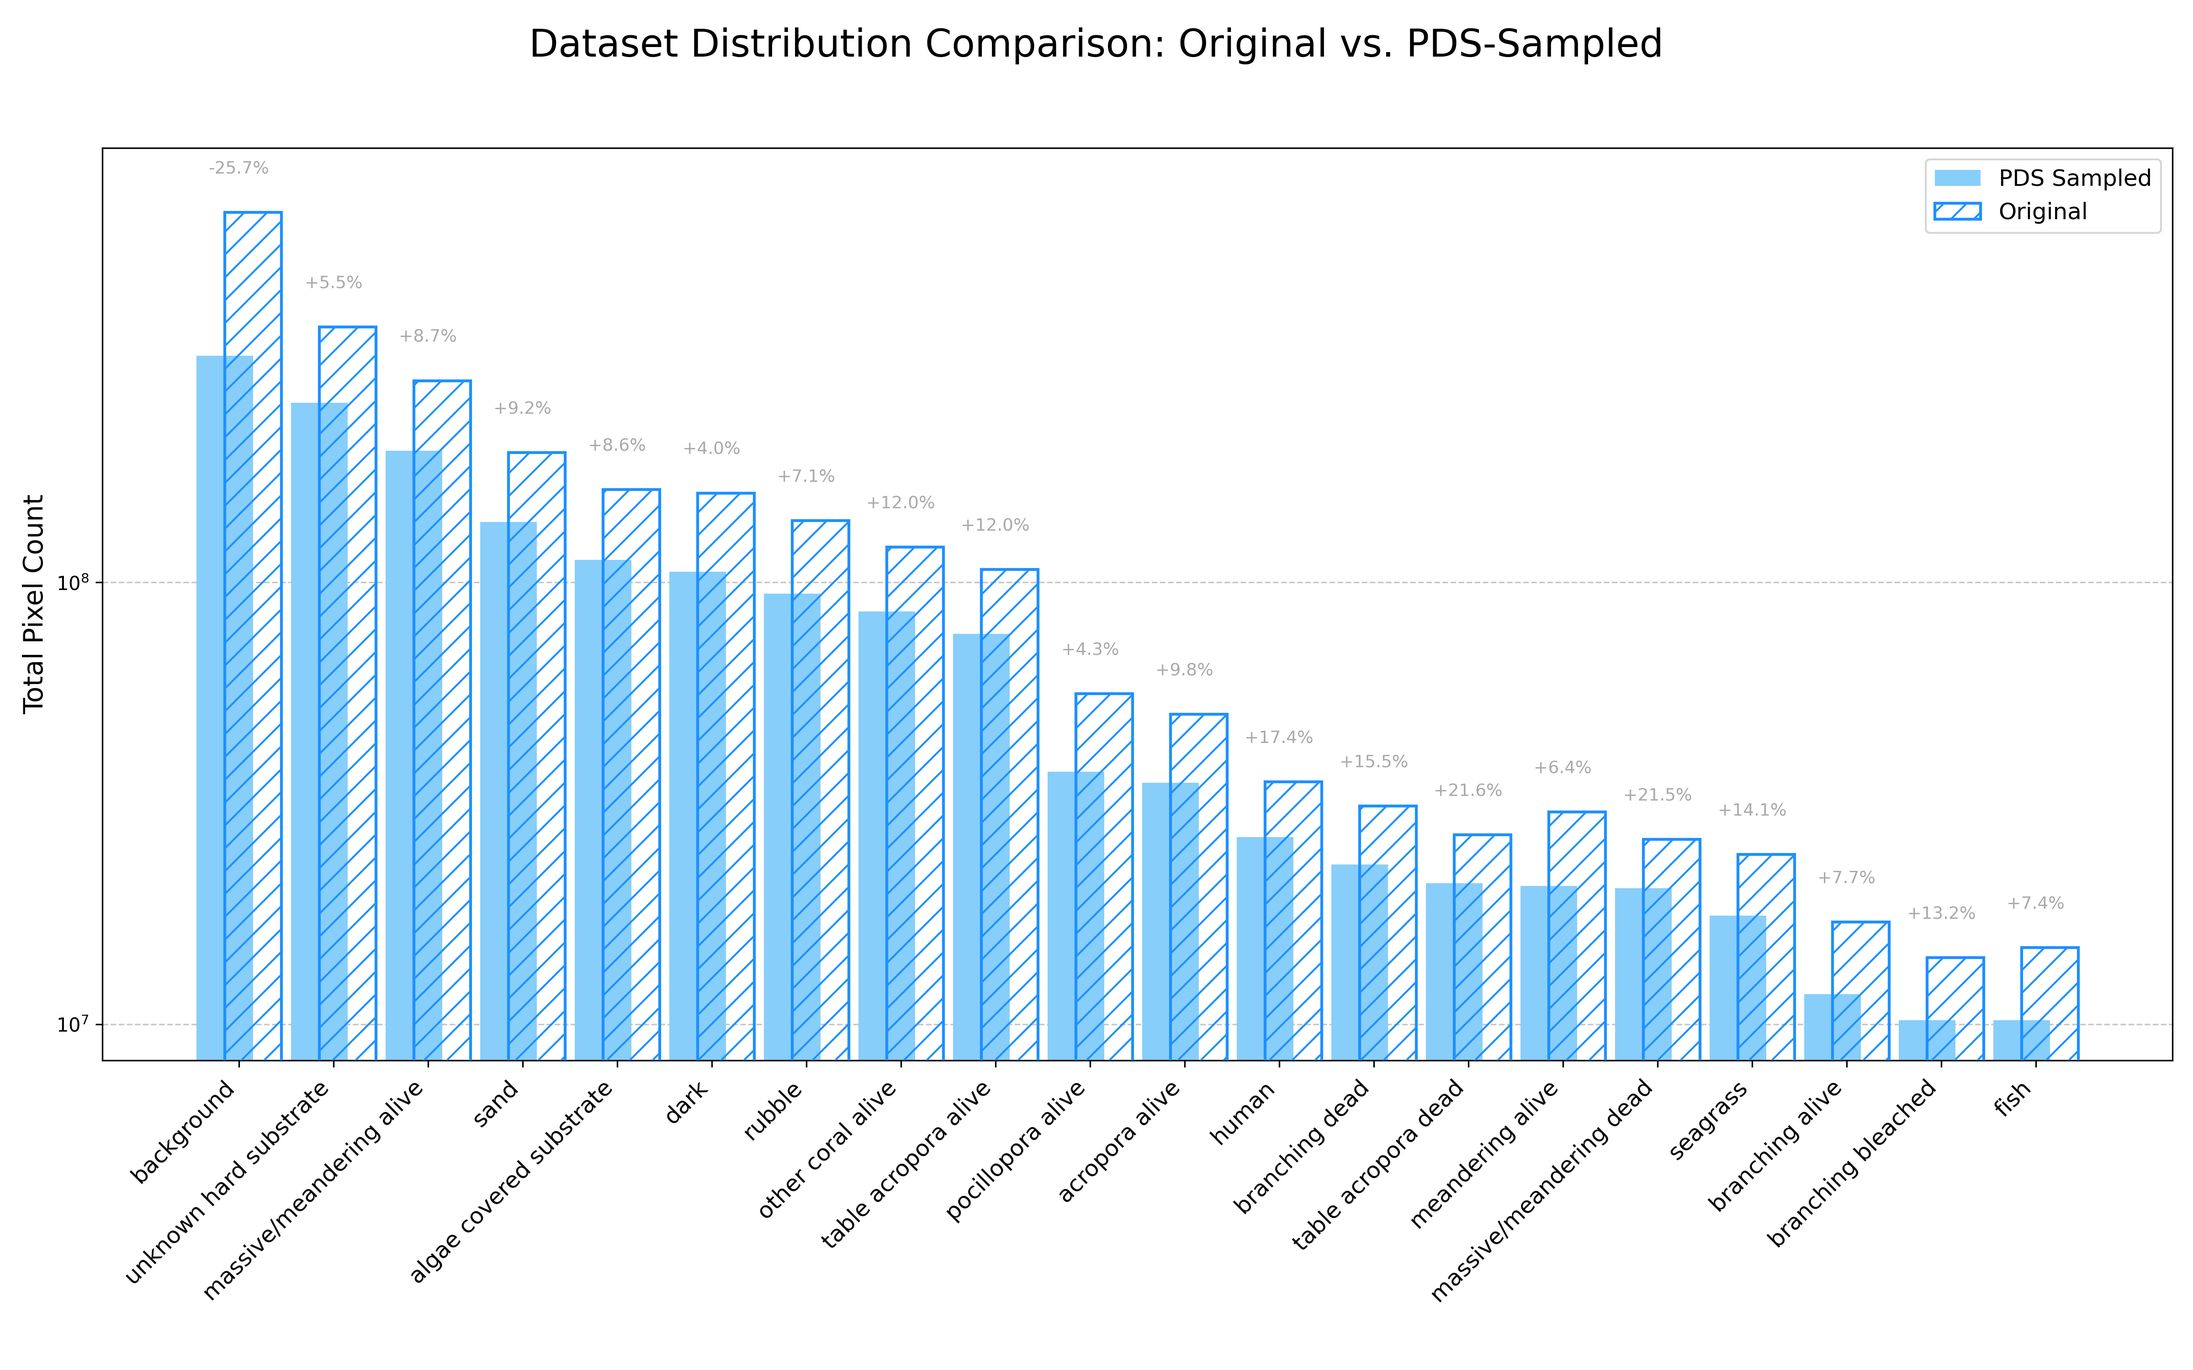
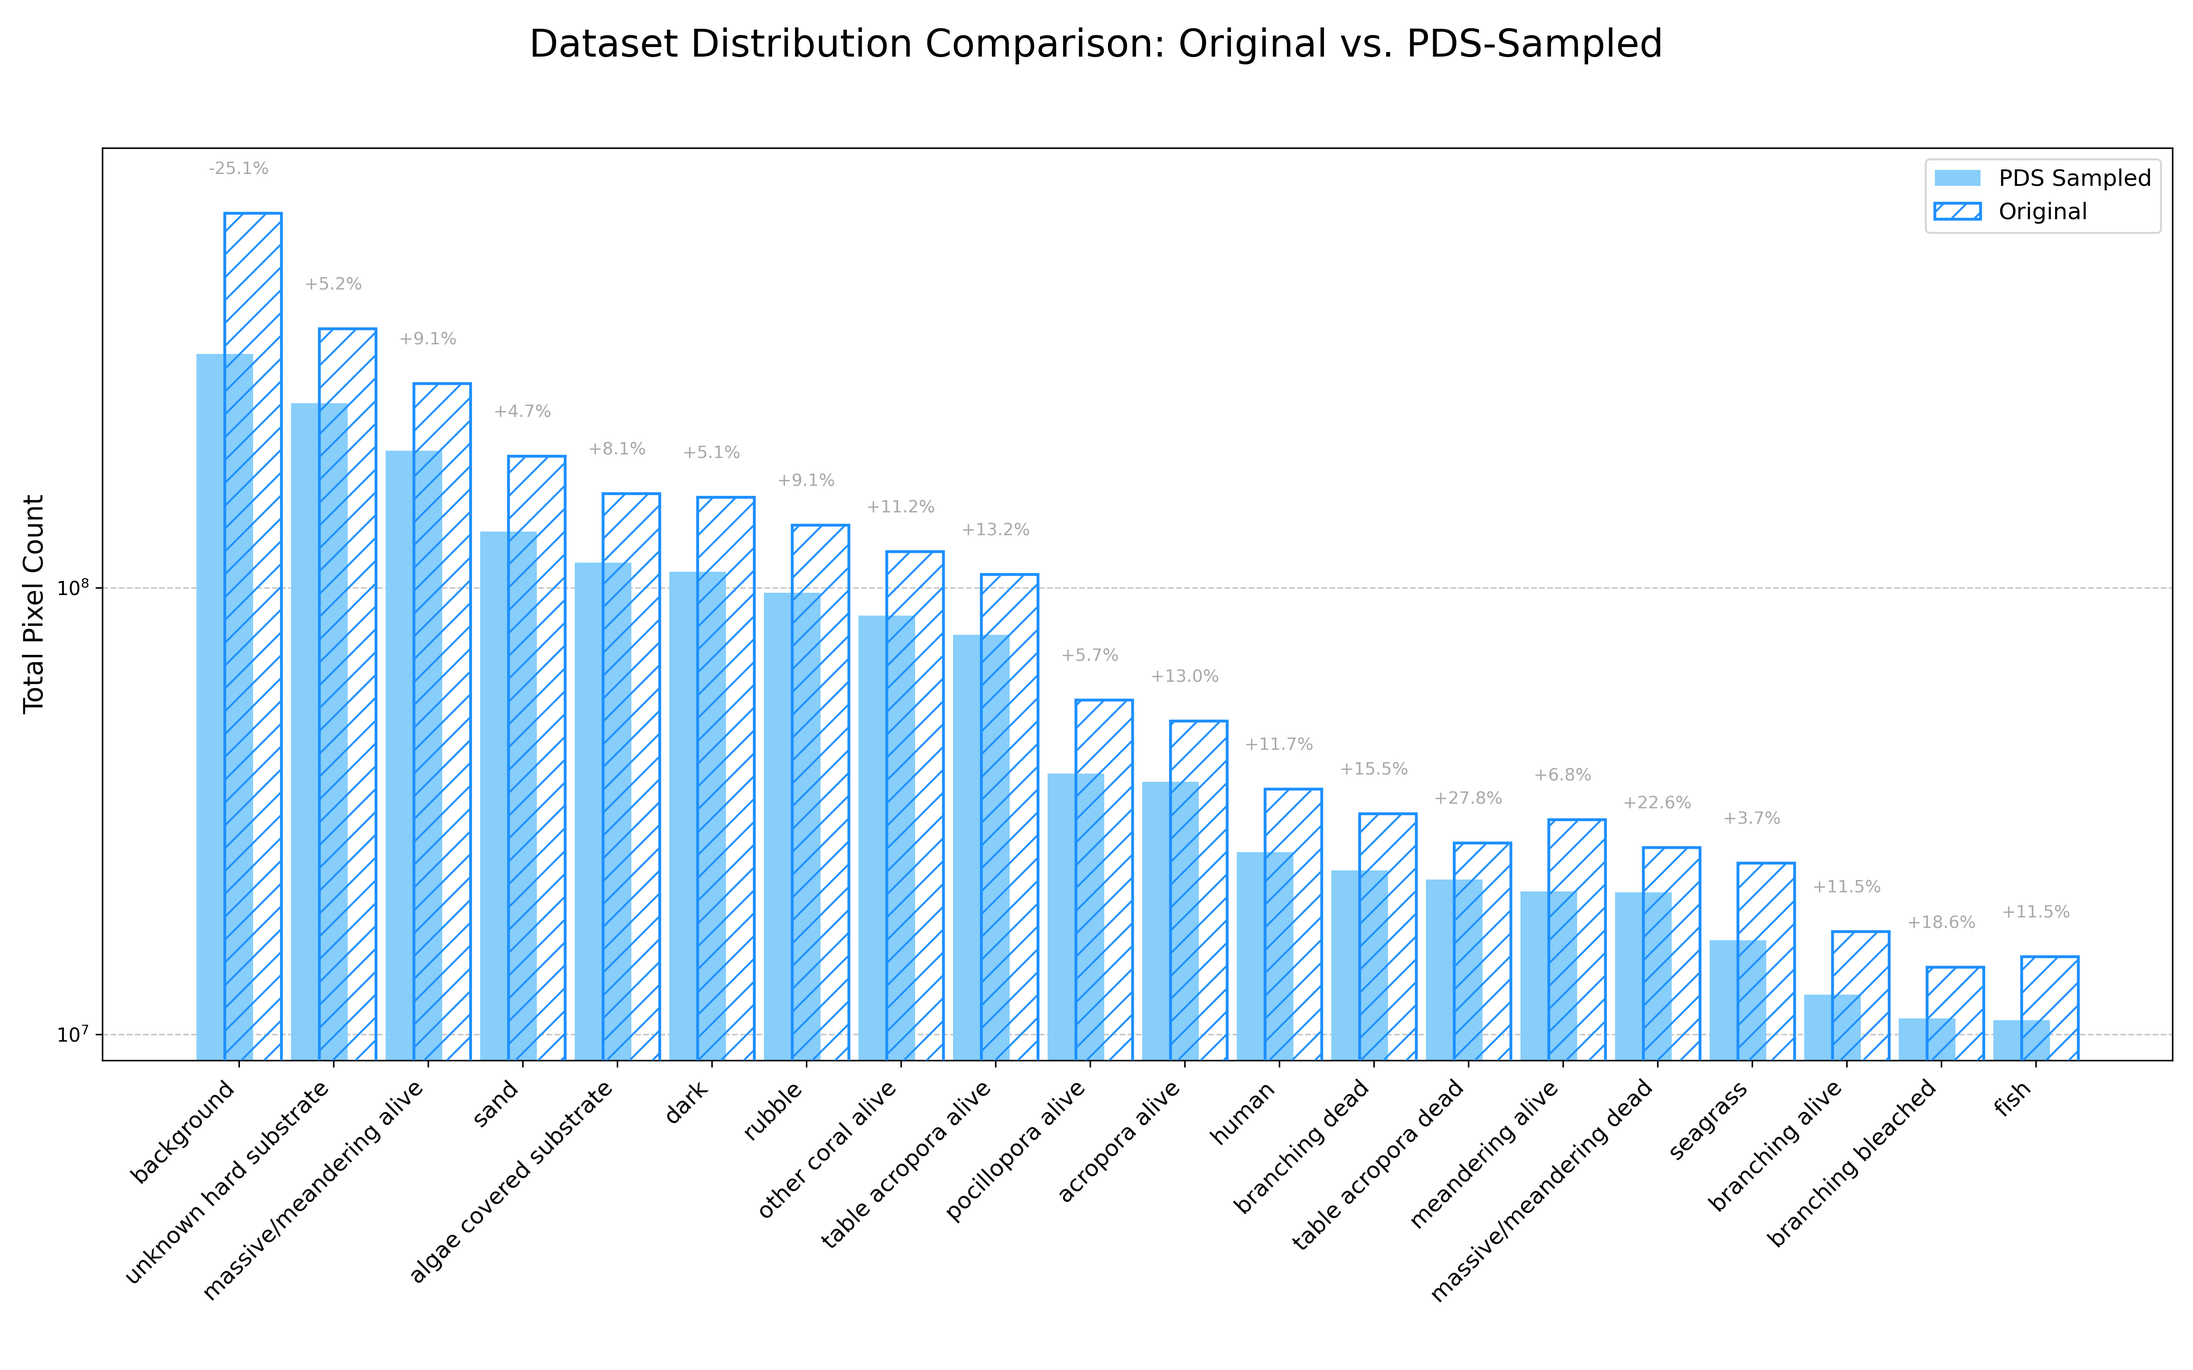
modified configs

diff --git a/pds_launcher/pds_config.py b/pds_launcher/pds_config.py
@@ -14,17 +14,17 @@ project_root = Path(__file__).parent.parent
 
 # Path to the root of the original 'coralscapes' directory
 # This directory should contain 'leftImg8bit' and 'gtFine' subdirectories
-DATASET_ROOT = project_root / "tests/dataset/coralscapes"  # TODO: Update this path!
+DATASET_ROOT = project_root / "./dataset/coralscapes"  # TODO: Update this path!
 
 # =============================================================================
 # OUTPUT CONFIGURATION
 # =============================================================================
 
 # Directory where the PDS-generated patch dataset will be saved
-PDS_OUTPUT_DIR = project_root / "tests/dataset/processed/pds_patches"
+PDS_OUTPUT_DIR = project_root / "./dataset/processed/pds_patches"
 
 # Root directory for all analysis reports and plots
-ANALYSIS_OUTPUT_DIR = project_root / "tests/experiments/pds/data_analysis/no_task_def"
+ANALYSIS_OUTPUT_DIR = project_root / "./experiments/pds/data_analysis/no_task_def"
 
 # =============================================================================
 # PATCH GENERATION PARAMETERS
@@ -40,7 +40,7 @@ PDS_RADIUS = 300
 
 # Number of CPU cores to use for parallel processing
 # Set to None to use all available cores
-NUM_WORKERS = 16  # Will use os.cpu_count() if None
+NUM_WORKERS = 32  # Will use os.cpu_count() if None
 
 # =============================================================================
 # TASK DEFINITION (OPTIONAL)

diff --git a/experiments/pds/data_analysis/no_task_def/comparison_results/comparison_report.md b/experiments/pds/data_analysis/no_task_def/comparison_results/comparison_report.md
@@ -4,42 +4,42 @@ This report compares the class distribution of the original dataset against the 
 
 | Label                       |   Original Pixels |    PDS Pixels |   Original_% |   PDS_% |   %_Change |
 |:----------------------------|------------------:|--------------:|-------------:|--------:|-----------:|
-| background                  |         687757093 | 326001949.000 |       26.061 |   19.36 |  -25.6983  |
-| unknown hard substrate      |         378884014 | 255042587.000 |       14.357 |   15.15 |    5.51642 |
-| massive/meandering alive    |         286269163 | 198443467.000 |       10.848 |   11.79 |    8.66154 |
-| sand                        |         196821540 | 137057035.000 |        7.458 |    8.14 |    9.15467 |
-| algae covered substrate     |         162284174 | 112385371.000 |        6.149 |    6.68 |    8.55435 |
-| dark                        |         159368750 | 105773265.000 |        6.039 |    6.28 |    4.03665 |
-| rubble                      |         137988434 |  94238051.000 |        5.229 |    5.60 |    7.05261 |
-| other coral alive           |         120299444 |  85978619.000 |        4.558 |    5.11 |   12.0316  |
-| table acropora alive        |         107051403 |  76465815.000 |        4.056 |    4.54 |   11.9666  |
-| pocillopora alive           |          56022067 |  37272919.000 |        2.123 |    2.21 |    4.29126 |
-| acropora alive              |          50272699 |  35222712.000 |        1.905 |    2.09 |    9.82576 |
-| human                       |          35365250 |  26487641.000 |        1.340 |    1.57 |   17.4033  |
-| branching dead              |          31160310 |  22966360.000 |        1.181 |    1.36 |   15.5325  |
-| table acropora dead         |          26850814 |  20825631.000 |        1.017 |    1.24 |   21.5778  |
-| meandering alive            |          30243169 |  20528847.000 |        1.146 |    1.22 |    6.40227 |
-| massive/meandering dead     |          26186688 |  20297325.000 |        0.992 |    1.21 |   21.4988  |
-| seagrass                    |          24207320 |  17617865.000 |        0.917 |    1.05 |   14.0828  |
-| branching alive             |          17008615 |  11690942.000 |        0.645 |    0.69 |    7.74427 |
-| branching bleached          |          14150345 |  10216416.000 |        0.536 |    0.61 |   13.1736  |
-| fish                        |          14915057 |  10215828.000 |        0.565 |    0.61 |    7.36489 |
-| millepora                   |           9932734 |   7601357.000 |        0.376 |    0.45 |   19.9599  |
-| meandering dead             |           9707860 |   7513435.000 |        0.368 |    0.45 |   21.319   |
-| transect line               |           8351655 |   6221857.000 |        0.316 |    0.37 |   16.778   |
-| stylophora alive            |           6979042 |   5656893.000 |        0.264 |    0.34 |   27.0562  |
-| other coral bleached        |           7921061 |   5455322.000 |        0.300 |    0.32 |    7.95696 |
-| other coral dead            |           6610701 |   4852800.000 |        0.250 |    0.29 |   15.069   |
-| sponge                      |           5819691 |   4691825.000 |        0.221 |    0.28 |   26.3734  |
-| turbinaria                  |           3664753 |   2697834.000 |        0.139 |    0.16 |   15.3942  |
-| massive/meandering bleached |           2912563 |   2615211.000 |        0.110 |    0.16 |   40.7489  |
-| crown of thorn              |           2124955 |   2003325.000 |        0.081 |    0.12 |   47.7799  |
-| anemone                     |           2228048 |   1926248.000 |        0.084 |    0.11 |   35.5193  |
-| transect tools              |           2267325 |   1645112.000 |        0.086 |    0.10 |   13.7353  |
-| trash                       |           1466031 |   1272786.000 |        0.056 |    0.08 |   36.0899  |
-| other animal                |           1099700 |   1119731.000 |        0.042 |    0.07 |   59.6074  |
-| meandering bleached         |           1297052 |    920797.000 |        0.049 |    0.05 |   11.2808  |
-| sea cucumber                |           1070283 |    804244.000 |        0.041 |    0.05 |   17.7885  |
-| clam                        |            872458 |    731711.000 |        0.033 |    0.04 |   31.4646  |
-| sea urchin                  |            930474 |    560014.000 |        0.035 |    0.03 |   -5.65731 |
-| dead clam                   |            655037 |    541186.000 |        0.025 |    0.03 |   29.5073  |
+| background                  |         687757093 | 333453559.000 |       26.061 |   19.51 | -25.1336   |
+| unknown hard substrate      |         378884014 | 258242091.000 |       14.357 |   15.11 |   5.24644  |
+| massive/meandering alive    |         286269163 | 202305907.000 |       10.848 |   11.84 |   9.12409  |
+| sand                        |         196821540 | 133392791.000 |        7.458 |    7.81 |   4.65172  |
+| algae covered substrate     |         162284174 | 113596412.000 |        6.149 |    6.65 |   8.08741  |
+| dark                        |         159368750 | 108422749.000 |        6.039 |    6.34 |   5.0519   |
+| rubble                      |         137988434 |  97454554.000 |        5.229 |    5.70 |   9.05513  |
+| other coral alive           |         120299444 |  86619284.000 |        4.558 |    5.07 |  11.1828   |
+| table acropora alive        |         107051403 |  78496946.000 |        4.056 |    4.59 |  13.2262   |
+| pocillopora alive           |          56022067 |  38360043.000 |        2.123 |    2.24 |   5.73204  |
+| acropora alive              |          50272699 |  36800569.000 |        1.905 |    2.15 |  13.034    |
+| human                       |          35365250 |  25578635.000 |        1.340 |    1.50 |  11.6831   |
+| branching dead              |          31160310 |  23303174.000 |        1.181 |    1.36 |  15.4782   |
+| table acropora dead         |          26850814 |  22220828.000 |        1.017 |    1.30 |  27.7878   |
+| meandering alive            |          30243169 |  20918143.000 |        1.146 |    1.22 |   6.80276  |
+| massive/meandering dead     |          26186688 |  20788083.000 |        0.992 |    1.22 |  22.5803   |
+| seagrass                    |          24207320 |  16255576.000 |        0.917 |    0.95 |   3.6913   |
+| branching alive             |          17008615 |  12285631.000 |        0.645 |    0.72 |  11.536    |
+| branching bleached          |          14150345 |  10865455.000 |        0.536 |    0.64 |  18.568    |
+| fish                        |          14915057 |  10773780.000 |        0.565 |    0.63 |  11.5398   |
+| meandering dead             |           9707860 |   7605396.000 |        0.368 |    0.45 |  20.972    |
+| millepora                   |           9932734 |   6865290.000 |        0.376 |    0.40 |   6.7276   |
+| transect line               |           8351655 |   6366880.000 |        0.316 |    0.37 |  17.7174   |
+| stylophora alive            |           6979042 |   5852957.000 |        0.264 |    0.34 |  29.4989   |
+| other coral bleached        |           7921061 |   5594304.000 |        0.300 |    0.33 |   9.05595  |
+| other coral dead            |           6610701 |   5280034.000 |        0.250 |    0.31 |  23.332    |
+| sponge                      |           5819691 |   4683620.000 |        0.221 |    0.27 |  24.2706   |
+| turbinaria                  |           3664753 |   2702823.000 |        0.139 |    0.16 |  13.8832   |
+| massive/meandering bleached |           2912563 |   2240145.000 |        0.110 |    0.13 |  18.7647   |
+| crown of thorn              |           2124955 |   1927733.000 |        0.081 |    0.11 |  40.0825   |
+| anemone                     |           2228048 |   1804372.000 |        0.084 |    0.11 |  25.0513   |
+| transect tools              |           2267325 |   1712920.000 |        0.086 |    0.10 |  16.6568   |
+| trash                       |           1466031 |   1527187.000 |        0.056 |    0.09 |  60.8554   |
+| other animal                |           1099700 |   1009254.000 |        0.042 |    0.06 |  41.714    |
+| sea cucumber                |           1070283 |    976755.000 |        0.041 |    0.06 |  40.9203   |
+| meandering bleached         |           1297052 |    918564.000 |        0.049 |    0.05 |   9.35501  |
+| clam                        |            872458 |    714646.000 |        0.033 |    0.04 |  26.4833   |
+| sea urchin                  |            930474 |    607226.000 |        0.035 |    0.04 |   0.770349 |
+| dead clam                   |            655037 |    529220.000 |        0.025 |    0.03 |  24.7547   |

diff --git a/experiments/pds/data_analysis/no_task_def/pds_analysis/distribution_report.md b/experiments/pds/data_analysis/no_task_def/pds_analysis/distribution_report.md
@@ -2,43 +2,43 @@
 
 | ID  | Class Name                   | Pixel Count          | Percentage |
 |:----|:-----------------------------|:---------------------|:-----------|
-| 0   | unlabeled                    | 359,065,715          | 17.579%   |
-| 1   | seagrass                     | 17,617,865           | 0.863%   |
-| 2   | trash                        | 1,272,786            | 0.062%   |
-| 3   | other coral dead             | 4,852,800            | 0.238%   |
-| 4   | other coral bleached         | 5,455,322            | 0.267%   |
-| 5   | sand                         | 137,057,035          | 6.710%   |
-| 6   | other coral alive            | 85,978,619           | 4.209%   |
-| 7   | human                        | 26,487,641           | 1.297%   |
-| 8   | transect tools               | 1,645,112            | 0.081%   |
-| 9   | fish                         | 10,215,828           | 0.500%   |
-| 10  | algae covered substrate      | 112,385,371          | 5.502%   |
-| 11  | other animal                 | 1,119,731            | 0.055%   |
-| 12  | unknown hard substrate       | 255,042,587          | 12.486%   |
-| 13  | background                   | 326,001,949          | 15.960%   |
-| 14  | dark                         | 105,773,265          | 5.178%   |
-| 15  | transect line                | 6,221,857            | 0.305%   |
-| 16  | massive/meandering bleached  | 2,615,211            | 0.128%   |
-| 17  | massive/meandering alive     | 198,443,467          | 9.715%   |
-| 18  | rubble                       | 94,238,051           | 4.614%   |
-| 19  | branching bleached           | 10,216,416           | 0.500%   |
-| 20  | branching dead               | 22,966,360           | 1.124%   |
-| 21  | millepora                    | 7,601,357            | 0.372%   |
-| 22  | branching alive              | 11,690,942           | 0.572%   |
-| 23  | massive/meandering dead      | 20,297,325           | 0.994%   |
-| 24  | clam                         | 731,711              | 0.036%   |
-| 25  | acropora alive               | 35,222,712           | 1.724%   |
-| 26  | sea cucumber                 | 804,244              | 0.039%   |
-| 27  | turbinaria                   | 2,697,834            | 0.132%   |
-| 28  | table acropora alive         | 76,465,815           | 3.744%   |
-| 29  | sponge                       | 4,691,825            | 0.230%   |
-| 30  | anemone                      | 1,926,248            | 0.094%   |
-| 31  | pocillopora alive            | 37,272,919           | 1.825%   |
-| 32  | table acropora dead          | 20,825,631           | 1.020%   |
-| 33  | meandering bleached          | 920,797              | 0.045%   |
-| 34  | stylophora alive             | 5,656,893            | 0.277%   |
-| 35  | sea urchin                   | 560,014              | 0.027%   |
-| 36  | meandering alive             | 20,528,847           | 1.005%   |
-| 37  | meandering dead              | 7,513,435            | 0.368%   |
-| 38  | crown of thorn               | 2,003,325            | 0.098%   |
-| 39  | dead clam                    | 541,186              | 0.026%   |
+| 0   | unlabeled                    | 366,602,656          | 17.662%   |
+| 1   | seagrass                     | 16,255,576           | 0.783%   |
+| 2   | trash                        | 1,527,187            | 0.074%   |
+| 3   | other coral dead             | 5,280,034            | 0.254%   |
+| 4   | other coral bleached         | 5,594,304            | 0.270%   |
+| 5   | sand                         | 133,392,791          | 6.427%   |
+| 6   | other coral alive            | 86,619,284           | 4.173%   |
+| 7   | human                        | 25,578,635           | 1.232%   |
+| 8   | transect tools               | 1,712,920            | 0.083%   |
+| 9   | fish                         | 10,773,780           | 0.519%   |
+| 10  | algae covered substrate      | 113,596,412          | 5.473%   |
+| 11  | other animal                 | 1,009,254            | 0.049%   |
+| 12  | unknown hard substrate       | 258,242,091          | 12.441%   |
+| 13  | background                   | 333,453,559          | 16.065%   |
+| 14  | dark                         | 108,422,749          | 5.224%   |
+| 15  | transect line                | 6,366,880            | 0.307%   |
+| 16  | massive/meandering bleached  | 2,240,145            | 0.108%   |
+| 17  | massive/meandering alive     | 202,305,907          | 9.747%   |
+| 18  | rubble                       | 97,454,554           | 4.695%   |
+| 19  | branching bleached           | 10,865,455           | 0.523%   |
+| 20  | branching dead               | 23,303,174           | 1.123%   |
+| 21  | millepora                    | 6,865,290            | 0.331%   |
+| 22  | branching alive              | 12,285,631           | 0.592%   |
+| 23  | massive/meandering dead      | 20,788,083           | 1.002%   |
+| 24  | clam                         | 714,646              | 0.034%   |
+| 25  | acropora alive               | 36,800,569           | 1.773%   |
+| 26  | sea cucumber                 | 976,755              | 0.047%   |
+| 27  | turbinaria                   | 2,702,823            | 0.130%   |
+| 28  | table acropora alive         | 78,496,946           | 3.782%   |
+| 29  | sponge                       | 4,683,620            | 0.226%   |
+| 30  | anemone                      | 1,804,372            | 0.087%   |
+| 31  | pocillopora alive            | 38,360,043           | 1.848%   |
+| 32  | table acropora dead          | 22,220,828           | 1.071%   |
+| 33  | meandering bleached          | 918,564              | 0.044%   |
+| 34  | stylophora alive             | 5,852,957            | 0.282%   |
+| 35  | sea urchin                   | 607,226              | 0.029%   |
+| 36  | meandering alive             | 20,918,143           | 1.008%   |
+| 37  | meandering dead              | 7,605,396            | 0.366%   |
+| 38  | crown of thorn               | 1,927,733            | 0.093%   |
+| 39  | dead clam                    | 529,220              | 0.025%   |
